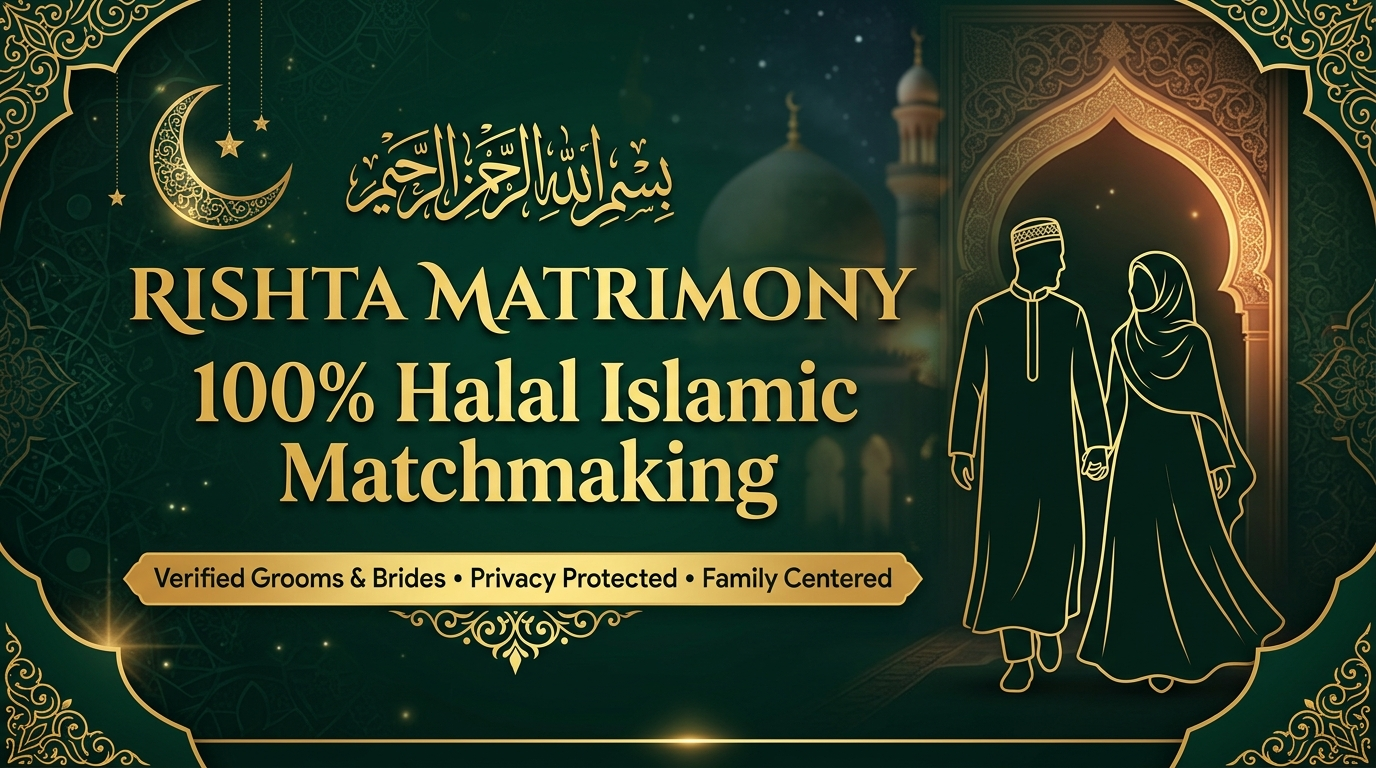
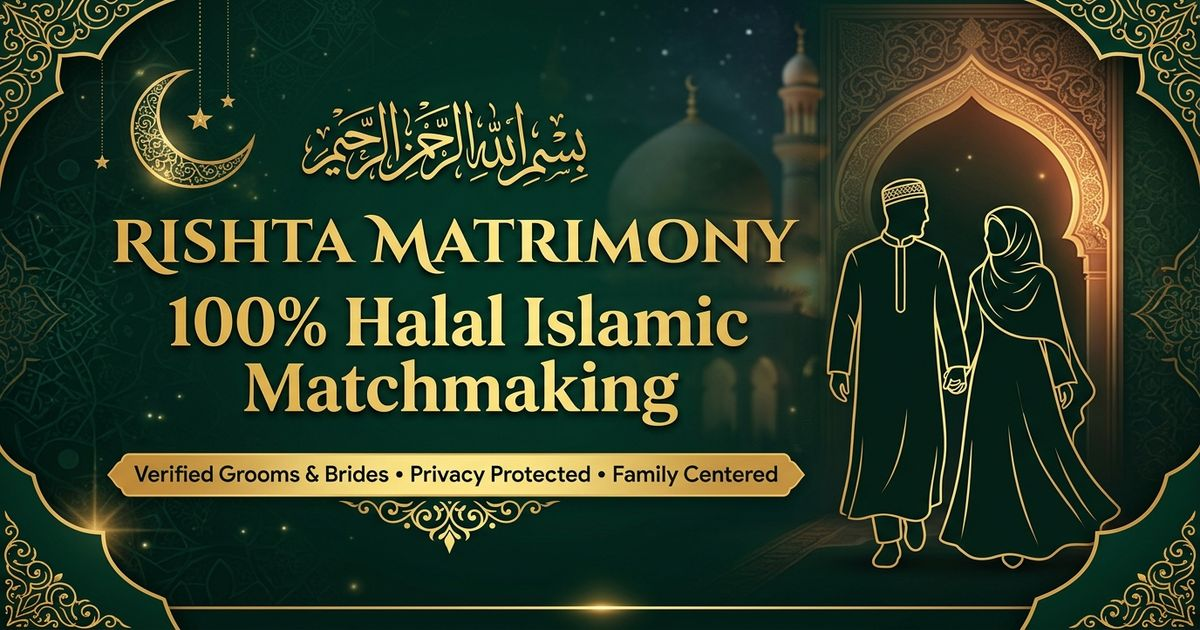
fix: optimize OG image sizes to <200KB and streamline profile preview description

diff --git a/api/og-profiles.ts b/api/og-profiles.ts
@@ -5,15 +5,15 @@ export default async function handler(req: any, res: any) {
   const profileId = req.query?.id;
   const siteUrl = "https://rishtamatrimony.vercel.app";
 
-  let title = "Rishta Matrimony - 100% Halal Islamic Matchmaking Community";
-  let description = "Connect with verified Muslim brides and grooms across India. 100% Halal, modest, and family-first with complete privacy.";
+  let title = "Rishta Matrimony - 100% Halal Islamic Marriage Community";
+  let description = "Join our Muslim Matrimony community to connect with verified profiles. Connecting Muslim hearts with authentic Islamic values.";
   let ogImage = `${siteUrl}/og-image.jpg`;
   let targetUrl = `${siteUrl}/profiles`;
 
   if (profileId) {
     targetUrl = `${siteUrl}/profiles?id=${profileId}`;
     try {
-      const resp = await fetch(`${SUPABASE_URL}/rest/v1/profiles_data?id=eq.${profileId}&select=id,name,gender,age,location,profession,education,caste,maslak,marital_status`, {
+      const resp = await fetch(`${SUPABASE_URL}/rest/v1/profiles_data?id=eq.${profileId}&select=id,name,gender,verification_status,is_live`, {
         headers: {
           apikey: SUPABASE_KEY,
           Authorization: `Bearer ${SUPABASE_KEY}`,
@@ -24,17 +24,10 @@ export default async function handler(req: any, res: any) {
         const rows = await resp.json();
         if (rows && rows.length > 0) {
           const p = rows[0];
-          const genderLabel = (p.gender || "").toLowerCase() === "male" ? "Groom" : "Bride";
-          title = `Verified ${genderLabel} Profile #${p.id} (${p.name || 'Candidate'}) | Rishta Matrimony`;
-          
-          const details: string[] = [];
-          if (p.age) details.push(`Age: ${p.age} Yrs`);
-          if (p.education) details.push(p.education);
-          if (p.profession && p.profession.toLowerCase() !== "no") details.push(p.profession);
-          if (p.location) details.push(p.location);
-          if (p.maslak) details.push(p.maslak);
+          const candidateName = (p.name || `Member #${p.id}`).trim();
 
-          description = `${details.join(" • ")} | 100% Verified Islamic Matrimonial Biodata. Click to view full profile details on Rishta Matrimony.`;
+          title = `Rishta Matrimony - Verified Profile: ${candidateName}`;
+          description = `100% Verified Profile on Rishta Matrimony. Connecting Muslim hearts with authentic Islamic values and complete family privacy.`;
           ogImage = `${siteUrl}/og-profile.jpg`;
         }
       }
@@ -49,9 +42,11 @@ export default async function handler(req: any, res: any) {
   <meta charset="UTF-8" />
   <title>${title}</title>
   <meta name="description" content="${description}" />
+  <link rel="icon" href="/favicon.png" type="image/png" />
+  <link rel="image_src" href="${ogImage}" />
   
   <!-- OpenGraph Metadata for WhatsApp & Social Media Preview -->
-  <meta property="og:type" content="profile" />
+  <meta property="og:type" content="website" />
   <meta property="og:url" content="${targetUrl}" />
   <meta property="og:site_name" content="Rishta Matrimony" />
   <meta property="og:title" content="${title}" />
@@ -60,7 +55,8 @@ export default async function handler(req: any, res: any) {
   <meta property="og:image:secure_url" content="${ogImage}" />
   <meta property="og:image:type" content="image/jpeg" />
   <meta property="og:image:width" content="1200" />
-  <meta property="og:image:height" content="675" />
+  <meta property="og:image:height" content="630" />
+  <meta property="og:image:alt" content="Rishta Matrimony" />
 
   <!-- Twitter Card -->
   <meta name="twitter:card" content="summary_large_image" />

diff --git a/index.html b/index.html
@@ -17,11 +17,13 @@
     <meta property="og:site_name" content="Rishta Matrimony" />
     <meta property="og:title" content="Rishta Matrimony - 100% Halal Islamic Matchmaking Community" />
     <meta property="og:description" content="Connect with verified Muslim brides and grooms across India. 100% Halal, modest, and family-first with complete privacy." />
+    <link rel="image_src" href="https://rishtamatrimony.vercel.app/og-image.jpg" />
     <meta property="og:image" content="https://rishtamatrimony.vercel.app/og-image.jpg" />
     <meta property="og:image:secure_url" content="https://rishtamatrimony.vercel.app/og-image.jpg" />
     <meta property="og:image:type" content="image/jpeg" />
     <meta property="og:image:width" content="1200" />
-    <meta property="og:image:height" content="675" />
+    <meta property="og:image:height" content="630" />
+    <meta property="og:image:alt" content="Rishta Matrimony" />
 
     <!-- Twitter Card -->
     <meta name="twitter:card" content="summary_large_image" />
